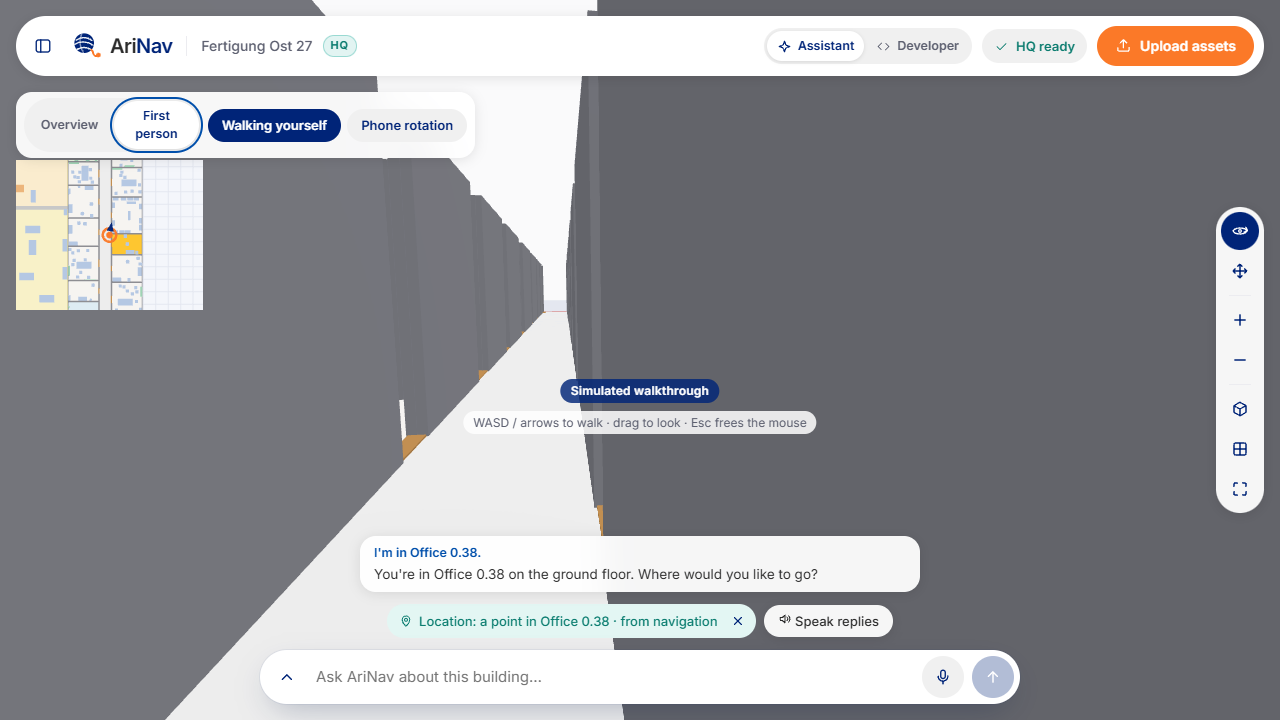
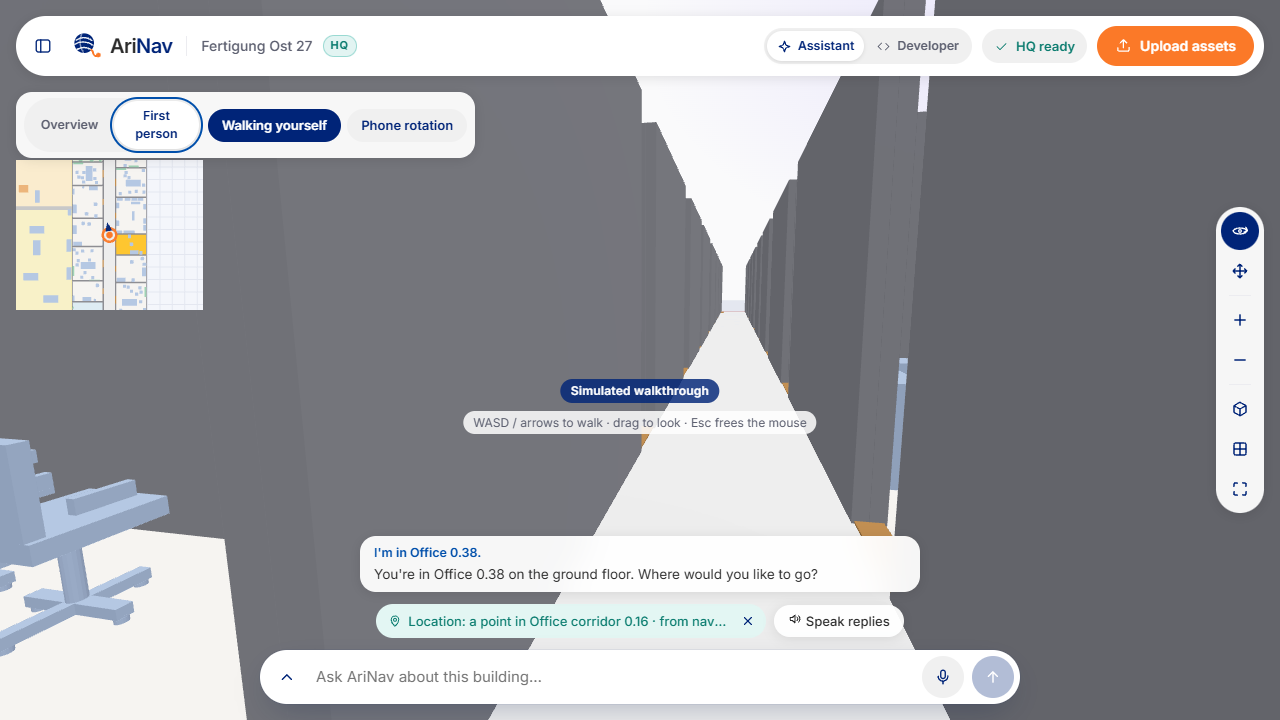
Surroundings: wall_side only near (<=10 m) and clearly off-axis (>=8 deg), lateral 0.4 m
A person walking 10 deg off the corridor axis made far doors of the opposite wall look 'right';
a person hugging the right wall (0.58 m) got no right-hand doors.

diff --git a/backend/app/navigation/surroundings.py b/backend/app/navigation/surroundings.py
@@ -17,7 +17,9 @@ from shapely.geometry import LineString, Polygon
 
 JSON = dict[str, Any]
 SIDES = ("ahead", "left", "behind", "right")
-LATERAL_M = 0.6  # this far off the line of sight counts as "on the right/left" further along
+LATERAL_M = 0.4  # this far off the line of sight counts as "on the right/left" further along
+WALL_SIDE_MAX_M = 10.0
+WALL_SIDE_MIN_DEG = 8.0
 
 
 def _side(rel: float) -> str:
@@ -39,7 +41,10 @@ def _relative(
         rel = (bearing - heading + 540) % 360 - 180  # + = counter-clockwise = left
         out |= {"side": _side(rel), "relative_deg": round(rel)}
         lateral = -math.sin(math.radians(rel)) * math.hypot(dx, dy)  # + = to the right
-        if out["side"] == "ahead" and abs(lateral) >= LATERAL_M:
+        # Only near and clearly off-axis: far away a few degrees of heading error would move doors
+        # of the opposite wall to "this side".
+        near = math.hypot(dx, dy) <= WALL_SIDE_MAX_M and abs(rel) >= WALL_SIDE_MIN_DEG
+        if out["side"] == "ahead" and abs(lateral) >= LATERAL_M and near:
             out["wall_side"] = "right" if lateral > 0 else "left"
     return out
 
